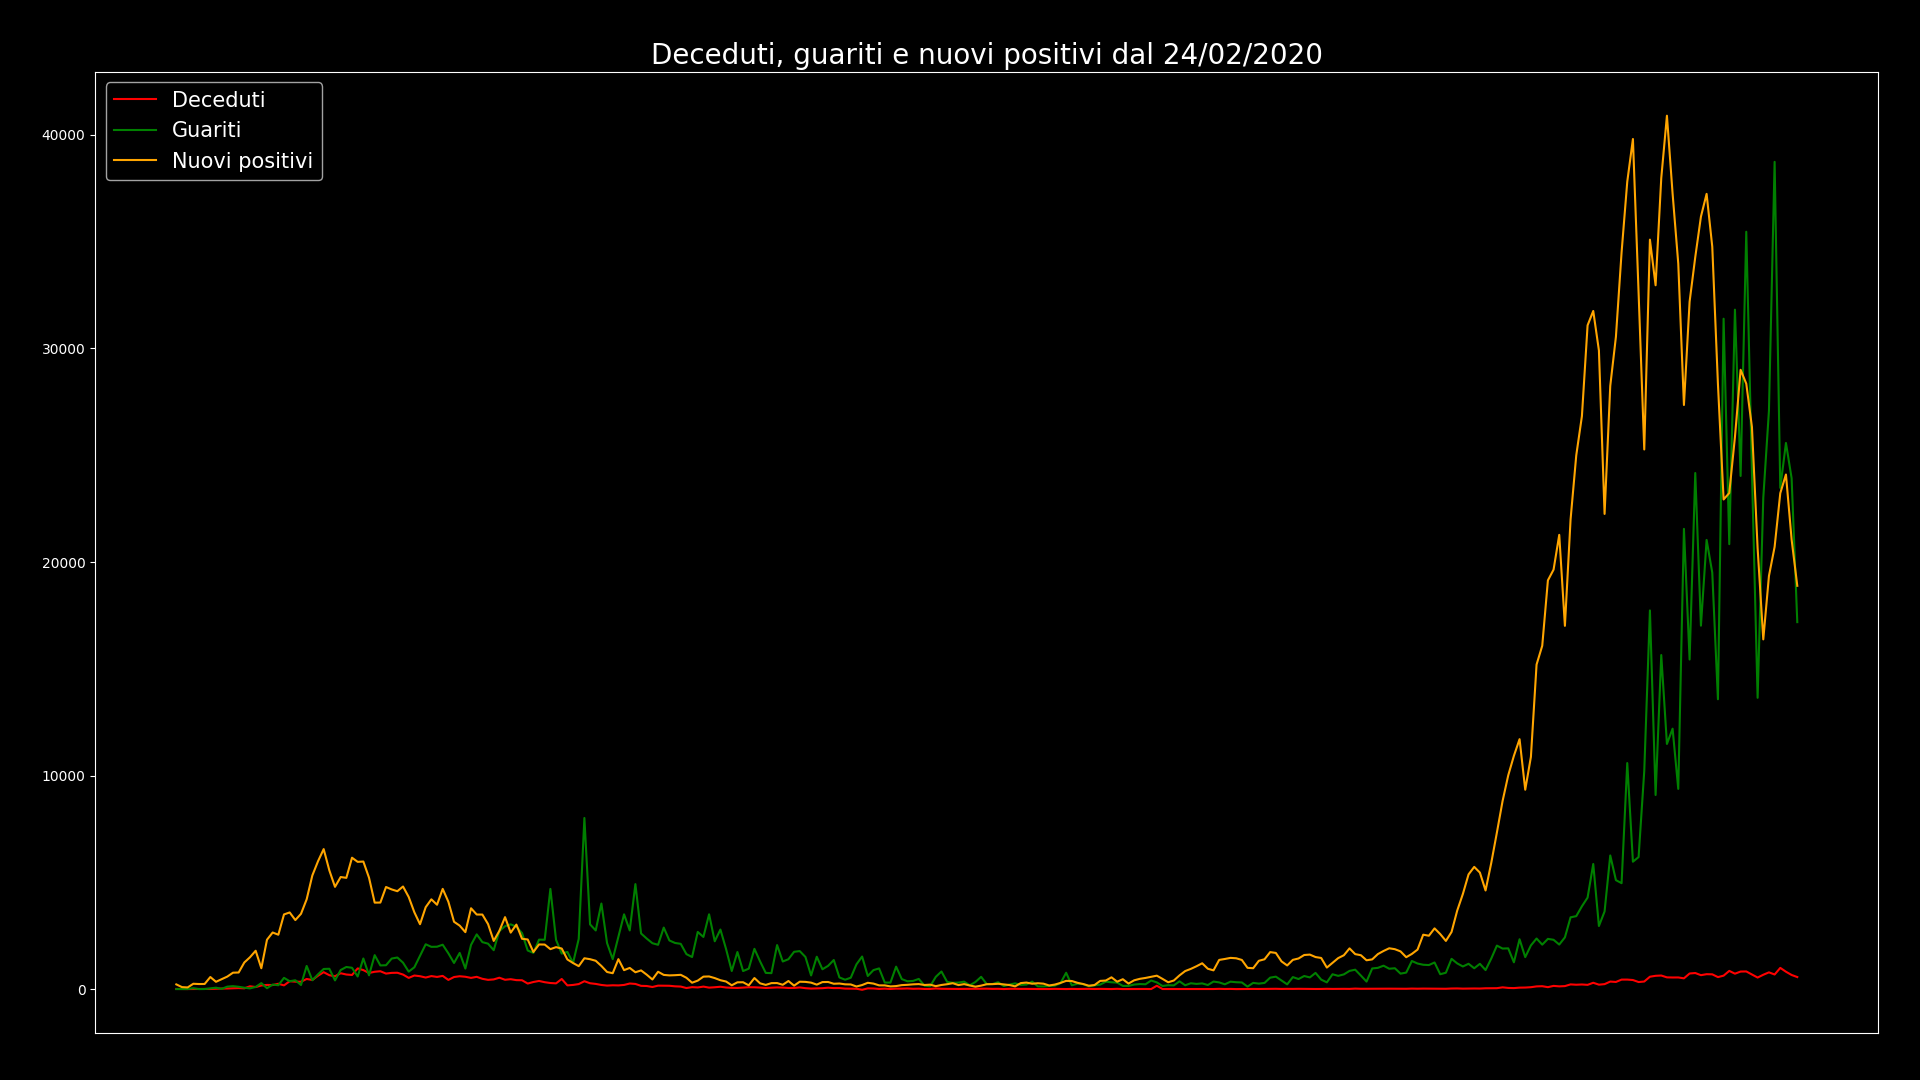
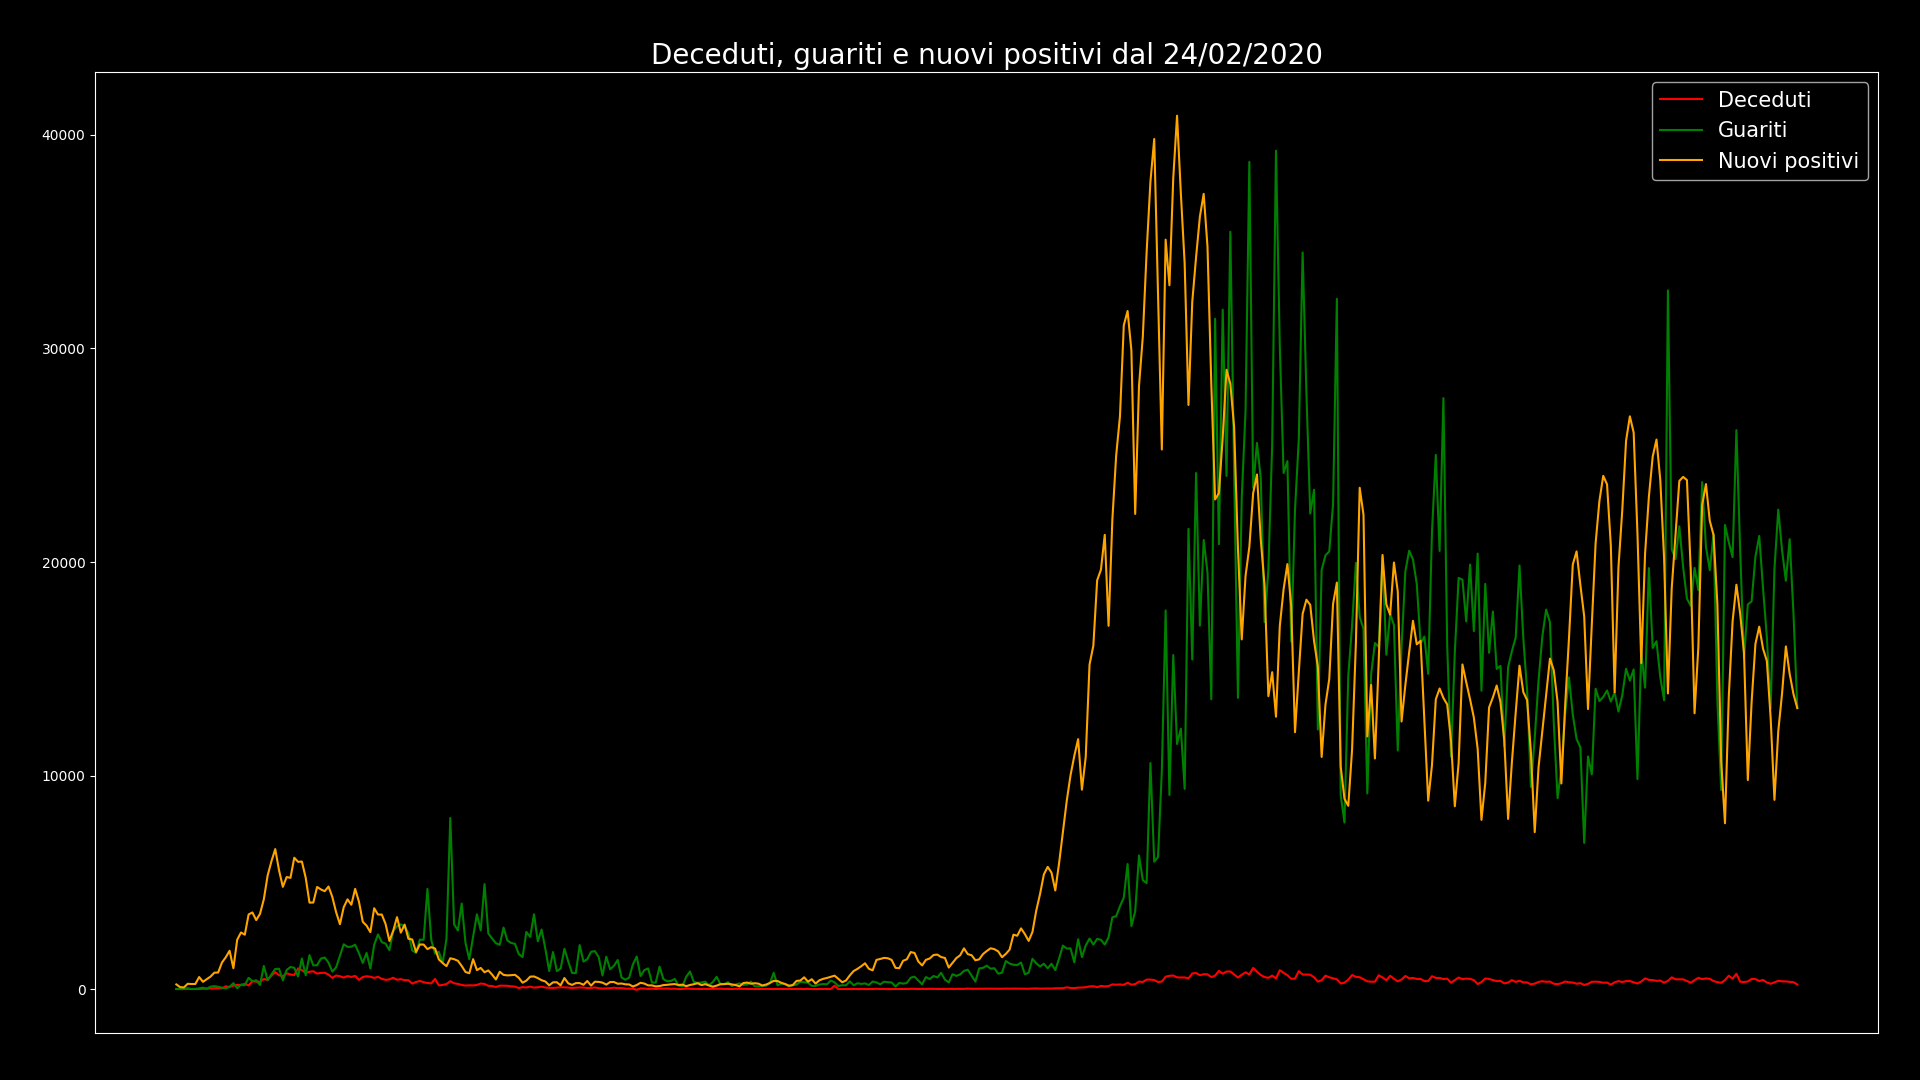
Fixed graphs

diff --git a/covid19graphs/src/deathconhealfromstartline.py b/covid19graphs/src/deathconhealfromstartline.py
@@ -10,8 +10,8 @@ def filter_date(dataframe):
 
     for h in dataframe.index:
         h = h.split('T')[0]
-        (_, month, day) = h.split('-')
-        h = month + "-" + day
+        (year, month, day) = h.split('-')
+        h = year + "-" + month + "-" + day
         fixeddate.append(h)
 
     #Sostituisco l'indice con i nuovi dati
